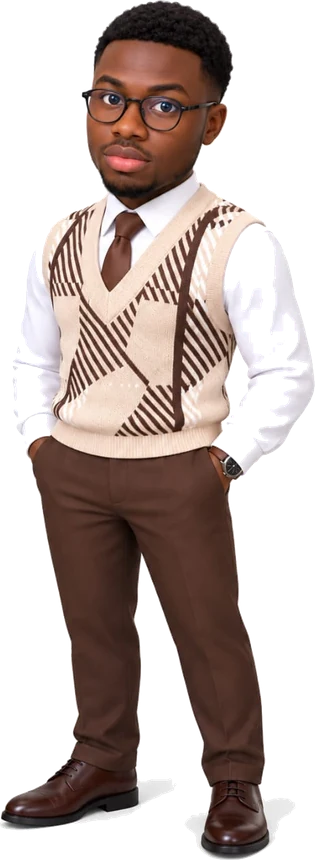
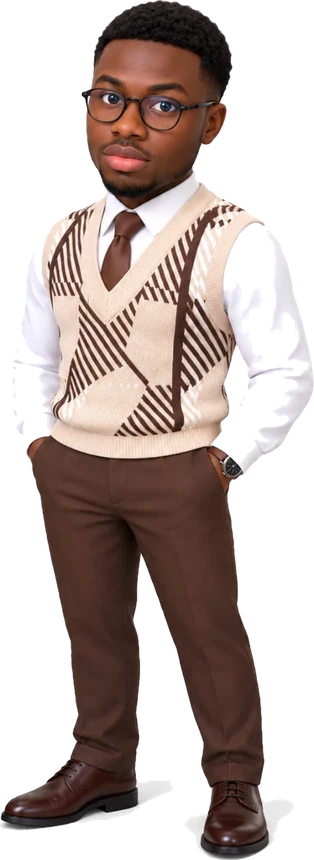
Une bibliotheque en volume derriere le personnage, et sa tete ne se detache plus
La tete du bitmoji etait cernee d'un lisere clair : le detourage
laissait sur son contour des pixels a 220/214/212, du blanc du studio,
alors que le sujet est a 113/76/64. Ce trait clair soulignait la
decoupe. Le seuil du masque est maintenant pousse au-dela du milieu :
il mord d'un pixel ou deux sur le sujet, ce qui vaut mieux que de
garder le fond, et la transition est elargie pour que le bord ne soit
plus binaire.

Le decor du parcours devient une bibliotheque peinte en perspective :
trois meubles, chacun avec sa joue de cote qui lui donne son
epaisseur, et des rangees de livres aux tranches inegales. Le
rangement est tire d'une graine fixe, sinon il changerait a chaque
redimensionnement.

Les trois decors etaient trop pales pour se voir. Leurs alphas de
trace sont remontes a la source, et non seulement l'opacite de la
toile : c'est le trace qui etait en cause.

diff --git a/src/components/Decor.jsx b/src/components/Decor.jsx
@@ -5,7 +5,7 @@ import './Decor.css';
  * Le décor d'une section, dessiné derrière son contenu.
  *
  * Chaque section a son lieu : une salle machine pour les projets, une
- * trame de constellation pour le savoir-faire, une pièce en
+ * trame de constellation pour le savoir-faire, une bibliothèque en
  * perspective pour le parcours. Le décor situe ce qu'on lit au lieu
  * de le poser sur un fond uni.
  *
@@ -17,7 +17,7 @@ import './Decor.css';
  * Le décor ne porte aucune information : il est masqué aux lecteurs
  * d'écran, et la section reste entière sans lui.
  *
- * @param {'machine'|'trame'|'piece'} genre  le décor à peindre
+ * @param {'machine'|'trame'|'biblio'} genre  le décor à peindre
  */
 export default function Decor({ genre = 'trame' }) {
   const toile = useRef(null);
@@ -64,7 +64,7 @@ export default function Decor({ genre = 'trame' }) {
       const fuiteX = l * 0.5;
       const fuiteY = h * 0.18;
       d.strokeStyle = trait;
-      d.globalAlpha = 0.16;
+      d.globalAlpha = 0.3;
 
       for (let i = -8; i <= 8; i += 1) {
         d.beginPath();
@@ -84,7 +84,7 @@ export default function Decor({ genre = 'trame' }) {
       }
 
       /* Quelques baies, posées sur la grille. */
-      d.globalAlpha = 0.22;
+      d.globalAlpha = 0.4;
       const baies = 7;
       for (let i = 0; i < baies; i += 1) {
         const t = 0.22 + (i / baies) * 0.72;
@@ -99,10 +99,10 @@ export default function Decor({ genre = 'trame' }) {
         /* Les diodes : trois par baie, la dernière à l'accent. */
         for (let j = 0; j < 3; j += 1) {
           d.fillStyle = j === 2 ? accent : trait;
-          d.globalAlpha = j === 2 ? 0.5 : 0.24;
+          d.globalAlpha = j === 2 ? 0.75 : 0.42;
           d.fillRect(x - large / 2 + 5, y - haut + 7 + j * 9, large - 10, 2);
         }
-        d.globalAlpha = 0.22;
+        d.globalAlpha = 0.4;
       }
       d.globalAlpha = 1;
     }
@@ -150,7 +150,7 @@ export default function Decor({ genre = 'trame' }) {
           const dy = a.y - b.y;
           const dist = Math.hypot(dx, dy);
           if (dist > portee) continue;
-          d.globalAlpha = (1 - dist / portee) * 0.2;
+          d.globalAlpha = (1 - dist / portee) * 0.38;
           d.strokeStyle = trait;
           d.beginPath();
           d.moveTo(a.x, a.y);
@@ -161,7 +161,7 @@ export default function Decor({ genre = 'trame' }) {
 
       for (let i = 0; i < sommets.length; i += 1) {
         const s = sommets[i];
-        d.globalAlpha = i % 6 === 0 ? 0.55 : 0.3;
+        d.globalAlpha = i % 6 === 0 ? 0.8 : 0.5;
         d.fillStyle = i % 6 === 0 ? accent : trait;
         d.beginPath();
         d.arc(s.x, s.y, i % 6 === 0 ? 2.4 : 1.5, 0, Math.PI * 2);
@@ -170,57 +170,145 @@ export default function Decor({ genre = 'trame' }) {
       d.globalAlpha = 1;
     }
 
-    /* --- La pièce : un lieu où se tenir --------------------------- */
-    function piece() {
+    /* --- La bibliothèque : le lieu du récit ----------------------- */
+    /* Les rayonnages sont peints en volume : chaque tranche a une
+       face avant et une joue de côté, dont la largeur dépend de la
+       distance au point de fuite. C'est cette joue qui donne
+       l'épaisseur ; sans elle on ne verrait que des barres. */
+    function biblio() {
       const trait = lire('--trait-fort', '#C9B8A6');
+      const encre = lire('--encre-tenue', '#8A7563');
       const accent = lire('--accent', '#A6703F');
       d.clearRect(0, 0, l, h);
-      d.lineWidth = 1;
 
-      /* Le point de fuite est décalé vers la gauche, là où se tient
-         le personnage : les lignes du sol convergent derrière lui. */
-      const fx = l * 0.19;
-      const fy = h * 0.42;
-      const sol = h * 0.78;
+      /* Le point de fuite est à gauche, là où se tient le personnage :
+         les rayonnages convergent derrière lui. Il est placé à
+         mi-hauteur des meubles, pour que les joues des plus hauts
+         descendent et celles des plus bas remontent, comme dans une
+         vraie salle vue à hauteur d'homme. */
+      const fx = l * 0.2;
+      const fy = h * 0.4;
 
+      /* Une graine fixe : le rangement des livres doit être le même
+         d'un rendu à l'autre, sinon il change à chaque
+         redimensionnement. */
+      let graine = 7;
+      const hasard = () => {
+        graine = (graine * 1103515245 + 12345) % 2147483648;
+        return graine / 2147483648;
+      };
+
+      /* Un meuble, dessiné en perspective à un point de fuite. */
+      const meuble = (x0, large, haut, bas, profond, teinte) => {
+        /* Les arêtes fuient vers le point de fuite : plus un point
+           est loin de lui, plus sa joue est large. */
+        const vers = (x, y, t) => [x + (fx - x) * t, y + (fy - y) * t];
+
+        const x1 = x0 + large;
+        /* Seule l'arête droite fuit : c'est la joue qu'on voit, les
+           meubles étant tous à droite du point de fuite. */
+        const [bx, by] = vers(x1, haut, profond);
+        const [cx, cy] = vers(x1, bas, profond);
+
+        /* La joue, plus sombre : c'est elle qui creuse le meuble. */
+        d.globalAlpha = 0.14;
+        d.fillStyle = teinte;
+        d.beginPath();
+        d.moveTo(x1, haut);
+        d.lineTo(bx, by);
+        d.lineTo(cx, cy);
+        d.lineTo(x1, bas);
+        d.closePath();
+        d.fill();
+
+        /* La face avant, en creux. */
+        d.globalAlpha = 0.07;
+        d.fillRect(x0, haut, large, bas - haut);
+
+        /* Les montants. */
+        d.globalAlpha = 0.34;
+        d.strokeStyle = teinte;
+        d.lineWidth = 1.2;
+        d.strokeRect(x0, haut, large, bas - haut);
+        d.beginPath();
+        d.moveTo(x1, haut); d.lineTo(bx, by);
+        d.moveTo(x1, bas); d.lineTo(cx, cy);
+        d.moveTo(bx, by); d.lineTo(cx, cy);
+        d.stroke();
+
+        /* Les étagères, et les livres posés dessus. La boucle va
+           jusqu'au dernier compartiment inclus : s'arrêter avant
+           laissait le bas du meuble vide, ce qui se voyait comme un
+           trou. */
+        const etages = 5;
+        for (let e = 1; e <= etages; e += 1) {
+          const y = haut + ((bas - haut) * e) / etages;
+          const [ex, ey] = vers(x1, y, profond);
+
+          /* La tablette du bas est déjà tracée par le cadre. */
+          if (e < etages) {
+            d.globalAlpha = 0.3;
+            d.beginPath();
+            d.moveTo(x0, y);
+            d.lineTo(x1, y);
+            d.lineTo(ex, ey);
+            d.stroke();
+          }
+
+          /* Une rangée de livres : des tranches de largeurs et de
+             hauteurs inégales, sinon la rangée fait grille. */
+          let px = x0 + 3;
+          const plafond = haut + ((bas - haut) * (e - 1)) / etages;
+          while (px < x1 - 5) {
+            const ep = 3 + hasard() * 7;
+            if (px + ep > x1 - 3) break;
+            const creux = (y - plafond) * (0.45 + hasard() * 0.42);
+            const marque = hasard() > 0.86;
+
+            d.globalAlpha = marque ? 0.4 : 0.12 + hasard() * 0.16;
+            d.fillStyle = marque ? accent : teinte;
+            d.fillRect(px, y - creux, ep, creux);
+
+            px += ep + 0.8;
+          }
+        }
+        d.globalAlpha = 1;
+      };
+
+      /* Trois meubles, du plus proche au plus lointain : les plus
+         éloignés sont plus petits, plus hauts sur l'image et plus
+         pâles. Ils s'arrêtent au-dessus de la chronologie, qui
+         occupe le bas de la section. */
+      d.globalAlpha = 1;
+      meuble(l * 0.34, l * 0.2, h * 0.06, h * 0.68, 0.3, encre);
+      meuble(l * 0.57, l * 0.17, h * 0.12, h * 0.63, 0.26, trait);
+      meuble(l * 0.76, l * 0.15, h * 0.17, h * 0.58, 0.22, trait);
+
+      /* Le sol, qui rattache les meubles au personnage. */
+      d.globalAlpha = 0.16;
       d.strokeStyle = trait;
-
-      /* La ligne d'horizon, et le sol qui s'en éloigne. */
-      d.globalAlpha = 0.2;
-      d.beginPath();
-      d.moveTo(0, sol);
-      d.lineTo(l, sol);
-      d.stroke();
-
-      d.globalAlpha = 0.13;
-      for (let i = -10; i <= 22; i += 1) {
+      d.lineWidth = 1;
+      for (let i = 0; i <= 14; i += 1) {
         d.beginPath();
         d.moveTo(fx, fy);
-        d.lineTo(fx + i * l * 0.1, h);
+        d.lineTo(l * (i / 14) * 1.6 - l * 0.3, h);
         d.stroke();
       }
 
-      /* Le mur du fond : de grands panneaux, comme des fenêtres. */
-      d.globalAlpha = 0.17;
-      for (let i = 0; i < 5; i += 1) {
-        const x = l * (0.36 + i * 0.13);
-        d.strokeRect(x, h * 0.16, l * 0.09, h * 0.42);
-      }
-
-      /* Une retombée de lumière au-dessus du personnage : c'est elle
-         qui fait du décor une scène et non un quadrillage. */
+      /* Une retombée de lumière sur la place du personnage : c'est
+         elle qui fait du décor une scène et non un plan. */
       const halo = d.createRadialGradient(
-        fx, h * 0.1, 0, fx, h * 0.1, h * 0.85
+        l * 0.17, 0, 0, l * 0.17, 0, h * 1.05
       );
       halo.addColorStop(0, accent);
       halo.addColorStop(1, 'transparent');
-      d.globalAlpha = 0.1;
+      d.globalAlpha = 0.13;
       d.fillStyle = halo;
       d.fillRect(0, 0, l, h);
       d.globalAlpha = 1;
     }
 
-    const peindre = { machine, trame, piece }[genre] || trame;
+    const peindre = { machine, trame, biblio }[genre] || trame;
 
     /* Seule la trame dérive : les deux autres décors sont fixes, et
        les redessiner à chaque image coûterait sans rien changer. */

diff --git a/src/components/Decor.css b/src/components/Decor.css
@@ -16,32 +16,35 @@
 /* Le décor s'efface vers les bords : sans ce fondu, la toile finit
    sur une arête nette et se lit comme une image collée. */
 .decor--machine {
-  opacity: 0.55;
+  opacity: 0.9;
   mask-image: radial-gradient(
-    120% 90% at 50% 30%, #000 38%, transparent 82%
+    125% 95% at 50% 30%, #000 46%, transparent 88%
   );
 }
 
 .decor--trame {
-  opacity: 0.6;
+  opacity: 0.95;
   mask-image: linear-gradient(
-    to bottom, transparent, #000 18%, #000 78%, transparent
+    to bottom, transparent, #000 14%, #000 82%, transparent
   );
 }
 
-.decor--piece {
+/* La bibliothèque porte la scène du parcours : elle reste pleine, et
+   c'est son masque qui la retire de là où le texte se pose. */
+.decor--biblio {
   opacity: 1;
   mask-image: radial-gradient(
-    130% 100% at 22% 45%, #000 48%, transparent 92%
+    135% 105% at 20% 48%, #000 52%, transparent 94%
   );
 }
 
-/* Sur fond sombre le décor se détache davantage : on le retient. */
+/* Sur fond sombre un trait clair ressort davantage : on retient le
+   décor pour que le texte reste premier. */
 @media (prefers-color-scheme: dark) {
-  :root:not([data-theme="light"]) .decor { opacity: 0.4; }
+  :root:not([data-theme="light"]) .decor { opacity: 0.62; }
 }
 
-:root[data-theme="dark"] .decor { opacity: 0.4; }
+:root[data-theme="dark"] .decor { opacity: 0.62; }
 
 /* Sur un téléphone le décor n'apporte plus rien : la section occupe
    tout l'écran, on ne voit qu'un fragment de trame, et la toile coûte

diff --git a/src/components/Parcours.jsx b/src/components/Parcours.jsx
@@ -78,9 +78,10 @@ export default function Parcours() {
       id="parcours"
       ref={section}
     >
-      {/* La pièce où se tient le personnage : le sol fuit derrière
-          lui et une retombée de lumière tombe sur sa place. */}
-      <Decor genre="piece" />
+      {/* La bibliothèque où se tient le personnage : les rayonnages
+          fuient derrière lui, et une retombée de lumière tombe sur sa
+          place. */}
+      <Decor genre="biblio" />
 
       <div className="contenu">
         <p className="surtitre">Parcours</p>

diff --git a/avatar/preparer_bitmoji.py b/avatar/preparer_bitmoji.py
@@ -68,11 +68,20 @@ while file:
 print(f"fond detecte : {fond.mean() * 100:.1f} %")
 
 masque = Image.fromarray(((~fond) * 255).astype(np.uint8), "L")
-masque = masque.filter(ImageFilter.GaussianBlur(1.1))
+masque = masque.filter(ImageFilter.GaussianBlur(1.6))
 m = np.array(masque, dtype=np.float32) / 255.0
-# Un contour franc : sans ce resserrement, un lisere blanc du fond
-# reste accroche au sujet.
-m = np.clip((m - 0.44) / 0.34, 0, 1)
+
+# Le seuil est pousse au-dela du milieu : il mord d'un pixel ou deux
+# sur le sujet. C'est voulu. Le detourage laissait sinon un lisere a
+# 220/214/212, du blanc du studio, alors que le sujet est a 113/76/64 :
+# ce liseré cerne la tete d'un trait clair et la fait paraitre collee.
+# Mieux vaut perdre un pixel de contour que garder le fond.
+m = np.clip((m - 0.62) / 0.30, 0, 1)
+
+# Une transition douce sur le pourtour : un bord binaire dentelle les
+# obliques et souligne la decoupe. Les valeurs intermediaires font le
+# raccord avec ce qu'il y a derriere.
+m = m ** 1.18
 
 entier = Image.fromarray(
     np.dstack([np.array(image, dtype=np.uint8),
@@ -90,32 +99,38 @@ os.makedirs(DOSSIER, exist_ok=True)
 # Les fractions sont relevees sur l'image : la tete tient dans le
 # cinquieme superieur, les bras descendent le long du buste jusqu'aux
 # poches. Les tranches se recouvrent d'environ deux points.
+# Les bras ne sont pas decoupes : les mains sont dans les poches sur
+# cette photo, ils n'ont donc rien a bouger de leur cote.
 PARTIES = {
     # (gauche, haut, droite, bas), en fractions de l'image
-    "tete":        (0.30, 0.000, 0.70, 0.245),
-    "corps":       (0.16, 0.200, 0.86, 1.000),
-    "bras-gauche": (0.14, 0.215, 0.38, 0.600),
-    "bras-droit":  (0.62, 0.215, 0.86, 0.600),
+    "tete":  (0.30, 0.000, 0.70, 0.245),
+    "corps": (0.16, 0.200, 0.86, 1.000),
 }
 
 for nom, (g, ht, d, bs) in PARTIES.items():
     partie = entier.crop((int(g * L), int(ht * H), int(d * L), int(bs * H)))
-    chemin = os.path.join(DOSSIER, f"bitmoji-{nom}.png")
-    partie.save(chemin, optimize=True)
-    print(f"   {nom:<14} {partie.size}  "
+    chemin = os.path.join(DOSSIER, f"bitmoji-{nom}.webp")
+    partie.save(chemin, "WEBP", quality=92, method=6)
+    print(f"   {nom:<8} {partie.size}  "
           f"{round(os.path.getsize(chemin) / 1024)} Ko")
 
 # L'image entiere sert de repli si l'animation ne se lance pas.
 entier_reduit = entier.copy()
 entier_reduit.thumbnail((640, 860), Image.LANCZOS)
-complet = os.path.join(DOSSIER, "bitmoji-complet.png")
-entier_reduit.save(complet, optimize=True)
-print(f"   complet        {entier_reduit.size}  "
+complet = os.path.join(DOSSIER, "bitmoji-complet.webp")
+entier_reduit.save(complet, "WEBP", quality=90, method=6)
+print(f"   complet  {entier_reduit.size}  "
       f"{round(os.path.getsize(complet) / 1024)} Ko")
 
-# Une vignette de controle, sur le crème de la page.
-controle = Image.new("RGB", entier.size, (252, 250, 247))
-controle.paste(entier, (0, 0), entier)
-controle.thumbnail((360, 640), Image.LANCZOS)
-controle.save(os.path.join(ICI, "controle_detourage.jpg"), quality=90)
-print("controle : controle_detourage.jpg")
+# Deux vignettes de controle. Le liseré du detourage ne se voit pas
+# sur un fond clair : c'est sur le brun sombre qu'il apparait, et
+# c'est la qu'il faut le juger. On cadre sur la tete, ou la coupure
+# se remarque le plus.
+tete_seule = entier.crop((int(0.30 * L), 0, int(0.70 * L), int(0.245 * H)))
+for nom, teinte in (("clair", (252, 250, 247)),
+                    ("sombre", (23, 17, 12))):
+    vue = Image.new("RGB", tete_seule.size, teinte)
+    vue.paste(tete_seule, (0, 0), tete_seule)
+    vue = vue.resize((vue.width * 2, vue.height * 2), Image.LANCZOS)
+    vue.save(os.path.join(ICI, f"controle_tete_{nom}.jpg"), quality=94)
+print("controle : controle_tete_clair.jpg, controle_tete_sombre.jpg")
